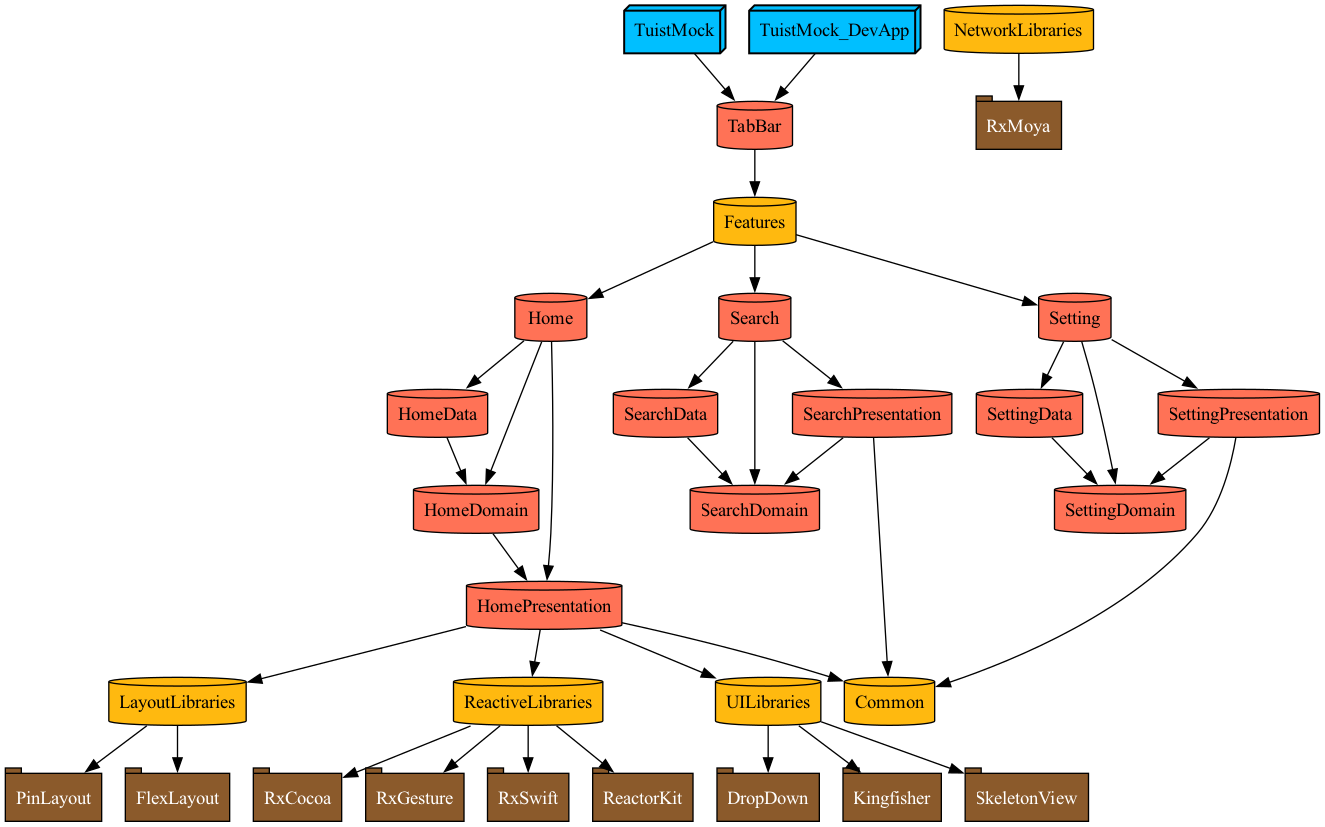
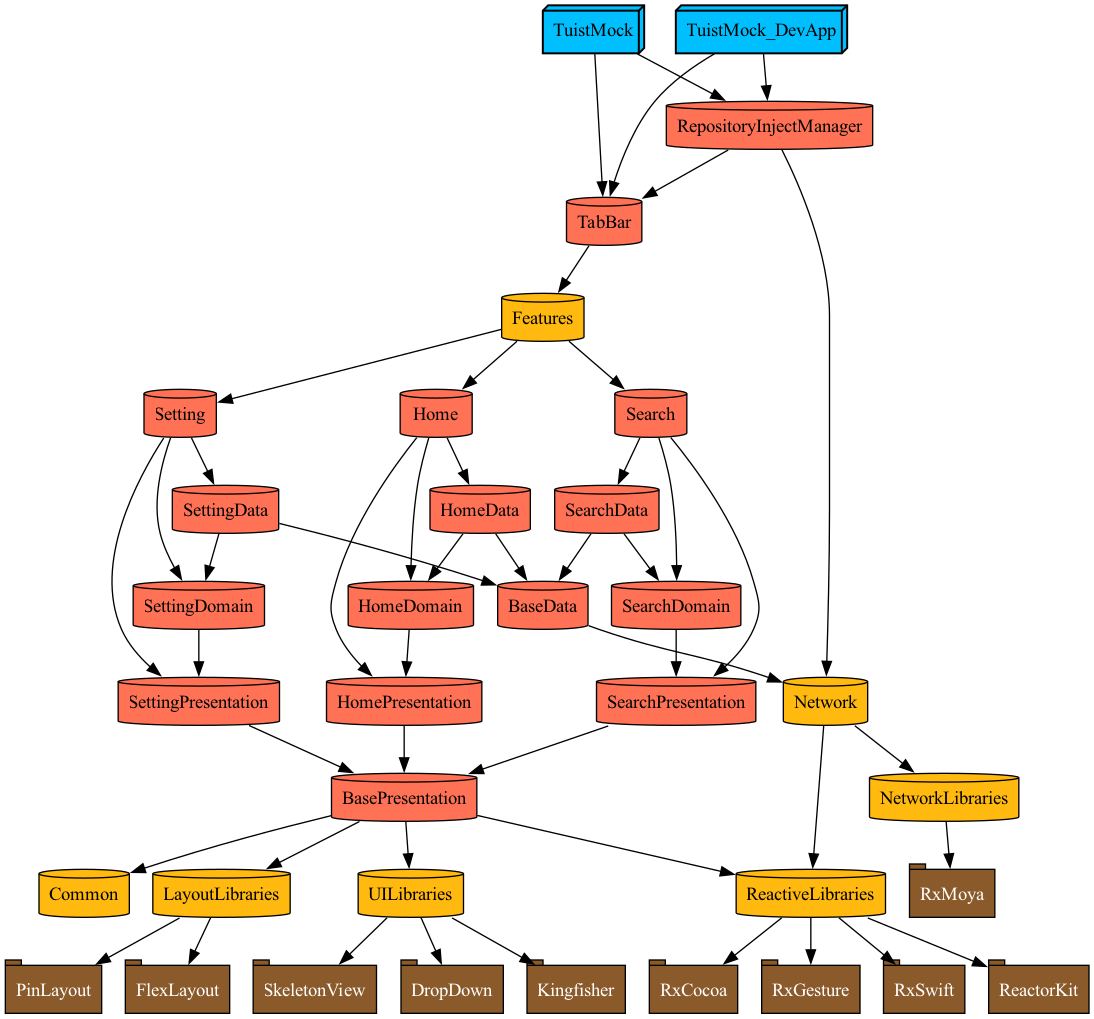
chore: Tuist

Changed region(s): [[0.0, 0.0, 1.0, 0.9976], [0.7459, 0.3325, 0.8391, 0.4232]]

diff --git a/Tuist/ProjectDescriptionHelpers/Project+Templates.swift b/Tuist/ProjectDescriptionHelpers/Project+Templates.swift
@@ -59,14 +59,14 @@ extension Project {
                                infoPlist: [String: Plist.Value] = [:],
                                hasDemoApp: Bool = false) -> Project {
         let settings: Settings = .settings(base: ["CODE_SIGN_IDENTITY": "",
-                                                  "CODE_SIGNING_REGUIRED": "NG"],
+                                                  "CODE_SIGNING_REGUIRED": "NO"],
                                            configurations: [
                                             .debug(name: .DEV,
                                                    settings: [
                                                     "GCC_PREPROCESSOR_DEFINITIONS": [
                                                         "DEBUG=1",
                                                         "OTHER_MACRO=1",
-                                                        "FLEXLAOUT_SWIFT_PACKAGE=1"
+                                                        "FLEXLAYOUT_SWIFT_PACKAGE=1"
                                                     ]
                                                    ],
                                                    xcconfig: .relativeToXCConfig(.DEV)
@@ -76,7 +76,7 @@ extension Project {
                                                     "GCC_PREPROCESSOR_DEFINITIONS": [
                                                         "DEBUG=1",
                                                         "OTHER_MACRO=1",
-                                                        "FLEXLAOUT_SWIFT_PACKAGE=1"
+                                                        "FLEXLAYOUT_SWIFT_PACKAGE=1"
                                                     ]
                                                    ],
                                                    xcconfig: .relativeToXCConfig(.TEST)
@@ -84,9 +84,9 @@ extension Project {
                                             .release(name: .PROD,
                                                    settings: [
                                                     "GCC_PREPROCESSOR_DEFINITIONS": [
-                                                        "DEBUG=1",
+                                                        "RELEASE=1",
                                                         "OTHER_MACRO=1",
-                                                        "FLEXLAOUT_SWIFT_PACKAGE=1"
+                                                        "FLEXLAYOUT_SWIFT_PACKAGE=1"
                                                     ]
                                                    ],
                                                    xcconfig: .relativeToXCConfig(.PROD)

diff --git a/Plugins/UtilityPlugin/ProjectDescriptionHelpers/Dependencies/Dependency+Project.swift b/Plugins/UtilityPlugin/ProjectDescriptionHelpers/Dependencies/Dependency+Project.swift
@@ -10,20 +10,24 @@ import ProjectDescription
 
 public enum ProjectLayer: String {
     case Application
+    case InjectManager
     case Feature
     case Presentation
     case Domain
     case Data
+    case Infrastructure
     case LibraryManager
 }
 
 extension TargetDependency {
     public struct Project {
+        public struct InjectManager { }
         public struct Feature {
             public struct Presentation { }
             public struct Domain { }
             public struct Data { }
         }
+        public struct Infrastructure { }
         public struct LibraryManager { }
     }
 }
@@ -32,6 +36,11 @@ extension TargetDependency {
 public extension TargetDependency.Project {
     static let TabBar: TargetDependency = .project(target: "TabBar", path: .relativeToProject(name: "TabBar"))
     static let Common: TargetDependency = .project(target: "Common", path: .relativeToProject(name: "Common"))
+}
+
+// MARK: - InjectManager
+public extension TargetDependency.Project.InjectManager {
+    static let Repository: TargetDependency = .project(layer: .InjectManager, name: "RepositoryInjectManager")
 }
 
 // MARK: - Feature
@@ -44,6 +53,7 @@ public extension TargetDependency.Project.Feature {
 
 // MARK: - Presentation
 public extension TargetDependency.Project.Feature.Presentation {
+    static let Base: TargetDependency = .project(layer: .Presentation, name: "BasePresentation")
     static let Home: TargetDependency = .project(layer: .Presentation, name: "HomePresentation")
     static let Search: TargetDependency = .project(layer: .Presentation, name: "SearchPresentation")
     static let Setting: TargetDependency = .project(layer: .Presentation, name: "SettingPresentation")
@@ -58,9 +68,16 @@ public extension TargetDependency.Project.Feature.Domain {
 
 // MARK: - Data
 public extension TargetDependency.Project.Feature.Data {
+    static let Base: TargetDependency = .project(layer: .Data, name: "BaseData")
     static let Home: TargetDependency = .project(layer: .Data, name: "HomeData")
     static let Search: TargetDependency = .project(layer: .Data, name: "SearchData")
     static let Setting: TargetDependency = .project(layer: .Data, name: "SettingData")
+}
+
+// MARK: - InfraStructure
+public extension TargetDependency.Project.Infrastructure {
+    static let Network: TargetDependency = .project(layer: .Infrastructure, name: "Network")
+    static let Service: TargetDependency = .project(layer: .Infrastructure, name: "Service")
 }
 
 // MARK: - Library

diff --git a/Projects/Presentation/HomePresentation/Sources/Reactor/HomeReactor.swift b/Projects/Presentation/HomePresentation/Sources/Reactor/HomeReactor.swift
@@ -9,8 +9,9 @@
 import Foundation
 import ReactorKit
 import RxSwift
-import RxCocoa
-import HomeDomain
+//import RxCocoa
+
+//import BasePresentation
 
 public struct HomeFlowAction {
     
@@ -22,11 +23,11 @@ public final class HomeReactor: Reactor {
     }
     
     public enum Mutation {
-        case didloadTestData(TestData)
+        case didloadTestData(TestDataViewModel)
     }
     
     public struct State {
-        var testData: TestData? = nil
+        var testData: TestDataViewModel? = nil
     }
     
     public var initialState = State()
@@ -40,7 +41,7 @@ public final class HomeReactor: Reactor {
         self.flowAction = flowAction
     }
     
-    private func loadTestData() -> Observable<TestData> {
+    private func loadTestData() -> Observable<TestDataViewModel> {
         return useCase.executeTestData().asObservable()
     }
 }
@@ -61,5 +62,17 @@ extension HomeReactor {
             state.testData = testData
         }
         return state
+    }
+}
+
+public struct TestDataViewModel {
+    let title: String
+    let content: String
+    let id: Int
+    
+    public init(title: String, content: String, id: Int) {
+        self.title = title
+        self.content = content
+        self.id = id
     }
 }

diff --git a/Plugins/UtilityPlugin/ProjectDescriptionHelpers/Dependencies/Dependency+Carthage.swift b/Plugins/UtilityPlugin/ProjectDescriptionHelpers/Dependencies/Dependency+Carthage.swift
@@ -1,0 +1,37 @@
+//
+//  Dependency+Carthage.swift
+//  UtilityPlugin
+//
+//  Created by JunHyeok Lee on 3/7/24.
+//
+
+import Foundation
+import ProjectDescription
+
+public extension TargetDependency {
+    struct Carthage {
+        public struct Reactive { }
+        public struct Layout { }
+        public struct UI { }
+        public struct Test { }
+    }
+}
+
+public extension TargetDependency.Carthage.Reactive {
+    static let RxSwift: TargetDependency = .carthage(name: "RxSwift")
+    static let RxCocoa: TargetDependency = .carthage(name: "RxCocoa")
+    static let RxGesture: TargetDependency = .carthage(name: "RxGesture")
+    static let All: [TargetDependency] = [RxSwift, RxCocoa, RxGesture]
+}
+
+public extension TargetDependency.Carthage.Layout {
+    static let FlexLayout: TargetDependency = .carthage(name: "FlexLayout")
+    static let PinLayout: TargetDependency = .carthage(name: "PinLayout")
+    static let All: [TargetDependency] = [FlexLayout, PinLayout]
+}
+
+public extension TargetDependency {
+    static func carthage(name: String) -> Self {
+        return .xcframework(path: .relativeToCarthage("\(name).xcframework"))
+    }
+}

diff --git a/Projects/Application/Project.swift b/Projects/Application/Project.swift
@@ -63,8 +63,8 @@ let targets: [Target] = [
         resources: .resources,
         scripts: scripts,
         dependencies: [
-//            .Project.Feature.Features
-            .Project.TabBar
+            .Project.TabBar,
+            .Project.InjectManager.Repository
         ],
         settings: .settings(
             configurations: [
@@ -98,8 +98,8 @@ let targets: [Target] = [
         resources: ["Resources/**"],
         scripts: scripts,
         dependencies: [
-//            .Project.Feature.Features
-            .Project.TabBar
+            .Project.TabBar,
+            .Project.InjectManager.Repository
         ],
         settings: .settings(
             configurations: [

diff --git a/Projects/Domain/HomeDomain/Sources/UseCases/DefaultHomeUseCase.swift b/Projects/Domain/HomeDomain/Sources/UseCases/DefaultHomeUseCase.swift
@@ -9,9 +9,7 @@
 import Foundation
 import RxSwift
 
-public protocol HomeUseCase {
-    func executeTestData() -> Single<TestData>
-}
+import HomePresentation
 
 public final class DefaultHomeUseCase: HomeUseCase {
     private let homeRepository: HomeRepository
@@ -22,7 +20,9 @@ public final class DefaultHomeUseCase: HomeUseCase {
 }
 
 extension DefaultHomeUseCase {
-    public func executeTestData() -> Single<TestData> {
-        return homeRepository.executeTestData()
+    public func executeTestData() -> Single<TestDataViewModel> {
+        return homeRepository.executeTestData().map { testData in
+            return testData.toViewModel()
+        }
     }
 }

diff --git a/Projects/InjectManager/RepositoryInjectManager/Project.swift b/Projects/InjectManager/RepositoryInjectManager/Project.swift
@@ -2,7 +2,7 @@
 //  Project.swift
 //  ProjectDescriptionHelpers
 //
-//  Created by JunHyeok Lee on 3/5/24.
+//  Created by JunHyeok Lee on 3/7/24.
 //
 
 import ProjectDescription
@@ -10,8 +10,9 @@ import ProjectDescriptionHelpers
 import UtilityPlugin
 
 let project: Project = .staticFramework(
-    name: "SearchDomain",
+    name: "RepositoryInjectManager",
     dependencies: [
-        .Project.Feature.Presentation.Search
+        .Project.Infrastructure.Network,
+        .Project.TabBar
     ]
 )

diff --git a/Projects/Data/BaseData/Project.swift b/Projects/Data/BaseData/Project.swift
@@ -2,7 +2,7 @@
 //  Project.swift
 //  ProjectDescriptionHelpers
 //
-//  Created by JunHyeok Lee on 3/5/24.
+//  Created by JunHyeok Lee on 3/7/24.
 //
 
 import ProjectDescription
@@ -10,8 +10,8 @@ import ProjectDescriptionHelpers
 import UtilityPlugin
 
 let project: Project = .staticFramework(
-    name: "SearchDomain",
+    name: "BaseData",
     dependencies: [
-        .Project.Feature.Presentation.Search
+        .Project.Infrastructure.Network
     ]
 )

diff --git a/Projects/Presentation/BasePresentation/Project.swift b/Projects/Presentation/BasePresentation/Project.swift
@@ -1,0 +1,20 @@
+//
+//  Project.swift
+//  ProjectDescriptionHelpers
+//
+//  Created by JunHyeok Lee on 3/7/24.
+//
+
+import ProjectDescription
+import ProjectDescriptionHelpers
+import UtilityPlugin
+
+let project: Project = .staticFramework(
+    name: "BasePresentation",
+    dependencies: [
+        .Project.LibraryManager.Layout,
+        .Project.LibraryManager.Reactive,
+        .Project.LibraryManager.UI,
+        .Project.Common
+    ]
+)

diff --git a/Projects/Infrastructure/Service/Project.swift b/Projects/Infrastructure/Service/Project.swift
@@ -2,7 +2,7 @@
 //  Project.swift
 //  ProjectDescriptionHelpers
 //
-//  Created by JunHyeok Lee on 3/5/24.
+//  Created by JunHyeok Lee on 3/7/24.
 //
 
 import ProjectDescription
@@ -10,8 +10,7 @@ import ProjectDescriptionHelpers
 import UtilityPlugin
 
 let project: Project = .staticFramework(
-    name: "SearchDomain",
+    name: "Infrastructure",
     dependencies: [
-        .Project.Feature.Presentation.Search
     ]
 )

diff --git a/Projects/Domain/HomeDomain/Sources/Entities/TestData.swift b/Projects/Domain/HomeDomain/Sources/Entities/TestData.swift
@@ -7,6 +7,7 @@
 //
 
 import Foundation
+import HomePresentation
 
 public struct TestData {
     let title: String
@@ -17,5 +18,11 @@ public struct TestData {
         self.title = title
         self.content = content
         self.id = id
+    }
+}
+
+extension TestData {
+    func toViewModel() -> TestDataViewModel {
+        return .init(title: self.title, content: self.content, id: self.id)
     }
 }

diff --git a/Projects/Infrastructure/Network/Project.swift b/Projects/Infrastructure/Network/Project.swift
@@ -1,0 +1,18 @@
+//
+//  Project.swift
+//  ProjectDescriptionHelpers
+//
+//  Created by JunHyeok Lee on 3/7/24.
+//
+
+import ProjectDescription
+import ProjectDescriptionHelpers
+import UtilityPlugin
+
+let project: Project = .framework(
+    name: "Network",
+    dependencies: [
+        .Project.LibraryManager.Network,
+        .Project.LibraryManager.Reactive
+    ]
+)
